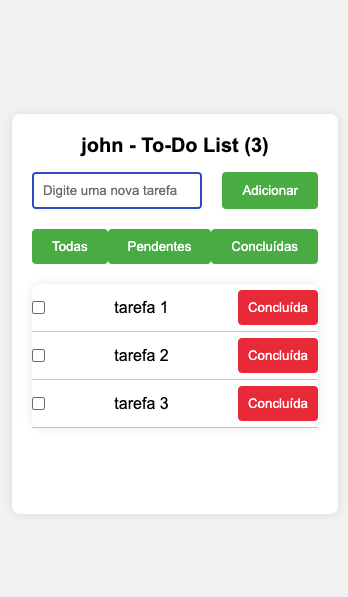
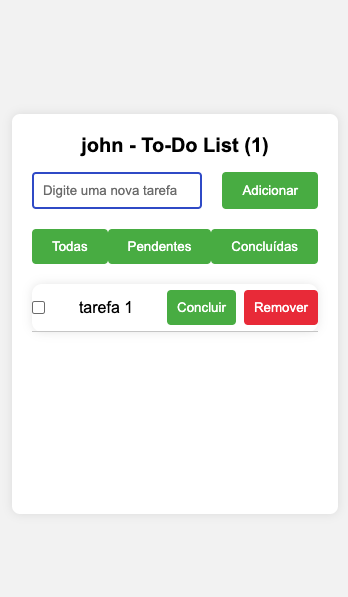
fix: separa ações de concluir e remover e ajusta componente Tarefa

diff --git a/React/my-app/src/components/Tarefa.jsx b/React/my-app/src/components/Tarefa.jsx
@@ -12,14 +12,16 @@ const Item = styled.li`
 `;
 
 const Botao = styled.button`
-    padding: 10px 10px;
-    color: #fff;
-    border: none;
-    border-radius: 4px;
-    cursor: pointer;
+  padding: 10px 10px;
+  background-color: #4caf50; /* adiciona isso */
+  color: #fff;
+  border: none;
+  border-radius: 4px;
+  cursor: pointer;
 
-    
-
+  &:hover {
+    background-color: #388e3c;
+  }
 `;
 const BotaoAlerta = styled(Botao)`
     background-color: #f44138;
@@ -29,6 +31,11 @@ const BotaoAlerta = styled(Botao)`
       
     }
 `;
+
+const Actions = styled.div`
+  display: flex;
+  gap: 8px;
+`;  
 
 const TextItem = styled.span`
   text-decoration: ${({ $concluida }) =>
@@ -41,29 +48,29 @@ const TextItem = styled.span`
 
 function Tarefa({ texto, concluida, onToggle, onRemover }) {
 
-  const handleClick = () => {
-    if (concluida) {
-      onRemover();
-    } else {
-      onToggle();
-    }
-  };
+
 
   return (
-    <Item >
-      <input 
-        type="checkbox"
-        checked={concluida}
-        onChange={onToggle}
-      />
+        <Item>
+        <input 
+          type="checkbox"
+          checked={concluida}
+          onChange={onToggle}
+        />
 
-      <TextItem $concluida={concluida}>
-        {texto}
-      </TextItem>
+        <TextItem $concluida={concluida}>
+          {texto}
+        </TextItem>
 
-      <BotaoAlerta onClick={handleClick}>
-        {concluida ? "Remover" : "Concluída"}
-      </BotaoAlerta>
+        <Actions>
+        <Botao onClick={onToggle}>
+          {concluida ? "Desfazer" : "Concluir"}
+        </Botao>
+
+        <BotaoAlerta onClick={onRemover}>
+          Remover
+        </BotaoAlerta>
+      </Actions>
     </Item>
   );
 }
